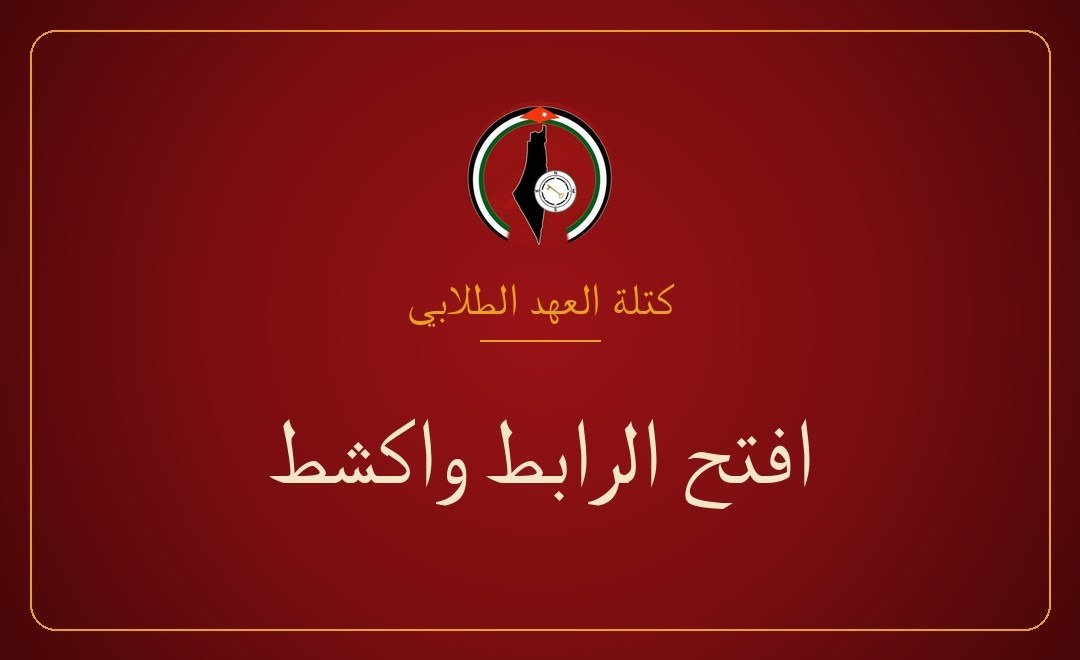
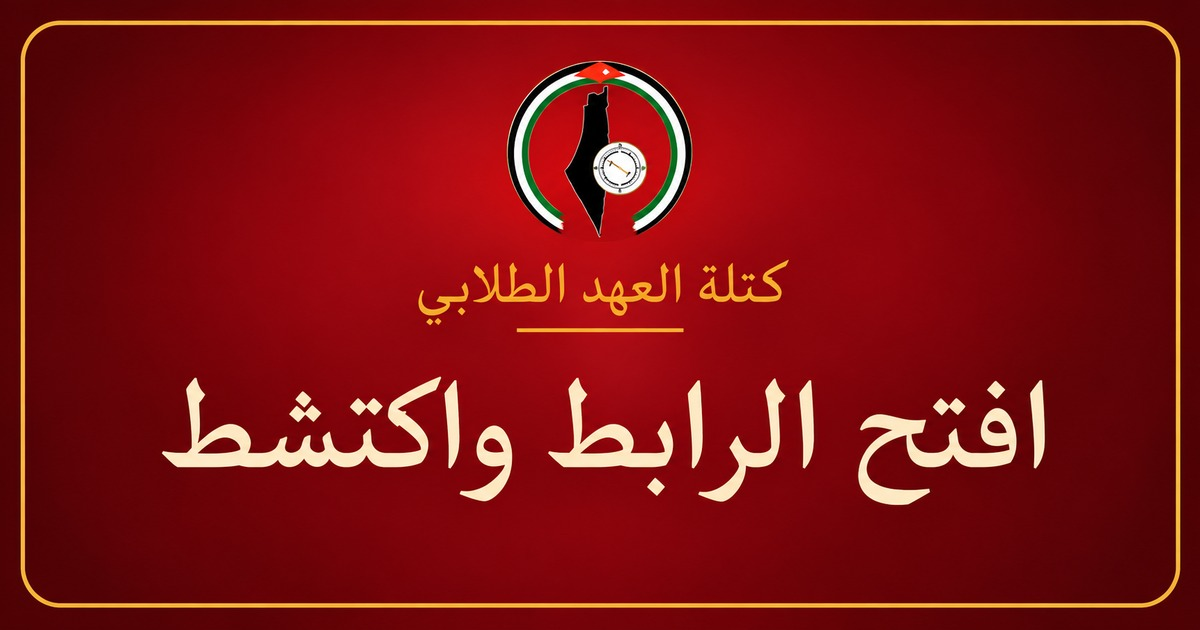
Add files via upload

Changed region(s): [[0.0306, 0.0302, 1.0, 0.9651], [0.1222, 0.6032, 0.8861, 0.8143], [0.0, 0.0603, 0.0306, 0.9349]]

diff --git a/index.html b/index.html
@@ -1,7 +1,7 @@
 <!DOCTYPE html><html lang="ar" dir="rtl"><head><meta charset="utf-8">
 <meta name="viewport" content="width=device-width, initial-scale=1, viewport-fit=cover">
 <title>طلائع العهد ١ (نسخة الضيف) | كتلة العهد الطلابي</title>
-<meta name="build" content="og-alahed1"><meta name="description" content="كتلة العهد الطلابي – طلائع العهد ١ (نسخة الضيف)"><meta property="og:type" content="website"><meta property="og:url" content="https://alaheduni.github.io/Al-lajna-Al-thaqafeia/"><meta property="og:image" content="https://alaheduni.github.io/Al-lajna-Al-thaqafeia/og.jpg"><meta property="og:image:type" content="image/jpeg"><meta property="og:image:width" content="1080"><meta property="og:image:height" content="660"><meta name="twitter:card" content="summary_large_image"><meta property="og:title" content="كتلة العهد الطلابي — اكشط لتعرف"><meta property="og:description" content="كتلة العهد الطلابي – طلائع العهد ١ (نسخة الضيف)">
+<meta name="build" content="og-alahed1"><meta name="description" content="كتلة العهد الطلابي – طلائع العهد ١ (نسخة الضيف)"><meta property="og:type" content="website"><meta property="og:url" content="https://alaheduni.github.io/Al-lajna-Al-thaqafeia/"><meta property="og:image" content="https://alaheduni.github.io/Al-lajna-Al-thaqafeia/og.jpg"><meta property="og:image:type" content="image/jpeg"><meta property="og:image:width" content="1200"><meta property="og:image:height" content="630"><meta name="twitter:card" content="summary_large_image"><meta property="og:title" content="كتلة العهد الطلابي — اكشط لتعرف"><meta property="og:description" content="كتلة العهد الطلابي – طلائع العهد ١ (نسخة الضيف)">
 <link href="https://fonts.googleapis.com/css2?family=Tajawal:wght@400;700;800&display=swap" rel="stylesheet">
 <style>
 :root{--red:#8a1013;--deep:#4a0709;--gold:#e8a317;--cream:#f5e6c8;color-scheme:dark}
